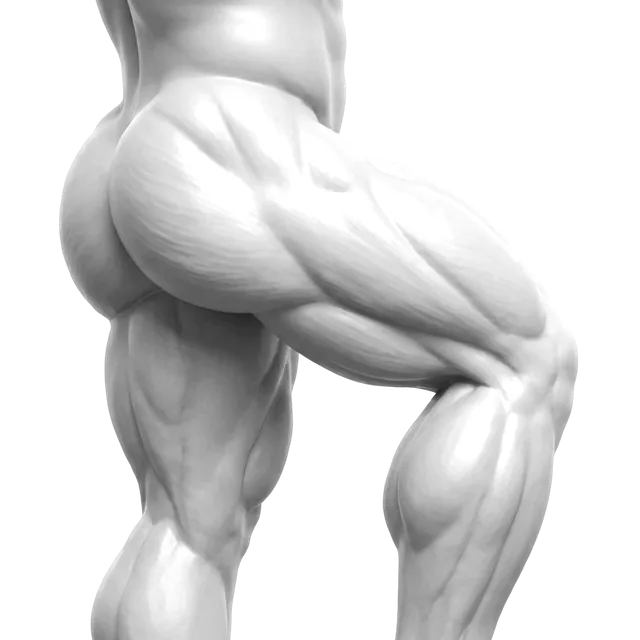
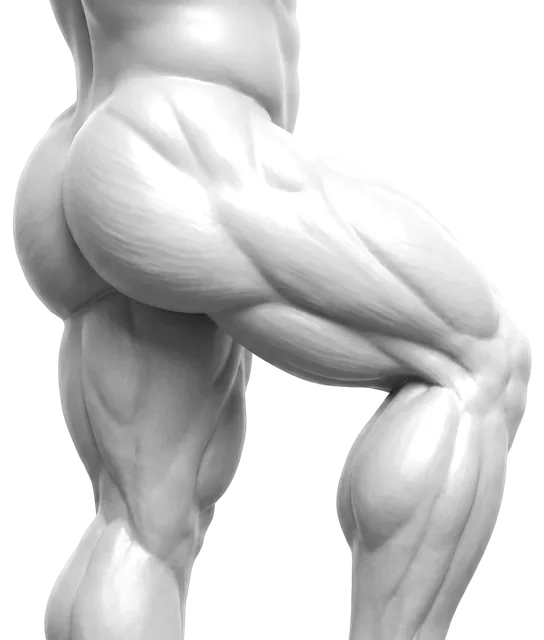
운동 화면 고침 (10-09 홍겸 님 메모)
- 그림: 전신은 한 장(앞 근육 종목 = 앞 · 뒤 근육 = 뒤) · '지금 몸' · 종목 이름표 뺌 · 확대 그림은 몸만 잘라 가운데로
- 종목 넣기 시트 제목 '종목 추가하기'
- 화면을 좌우로 밀면 이전 · 다음 종목 · 맨 아래 ‹ › 뺌
- 그 종목 마지막 세트 휴식을 끝까지 기다리면 다음 종목으로 (마지막 종목은 그대로 · 보고서로 안 감)
- 메모의 직전 동작: 시간 없이 이름만 · 최근 3개

Claude-Session: https://claude.ai/code/session_01S7k5n3etJGqSpyDbrQ5bJh

diff --git a/app/src/main/java/com/slayde/hasenheide/ui/WorkoutScreen.kt b/app/src/main/java/com/slayde/hasenheide/ui/WorkoutScreen.kt
@@ -45,6 +45,8 @@ import androidx.compose.material3.Text
 import androidx.compose.runtime.Composable
 import androidx.compose.runtime.DisposableEffect
 import androidx.compose.runtime.LaunchedEffect
+import androidx.compose.foundation.gestures.detectHorizontalDragGestures
+import androidx.compose.ui.input.pointer.pointerInput
 import androidx.compose.runtime.SideEffect
 import androidx.compose.runtime.getValue
 import androidx.compose.runtime.mutableIntStateOf
@@ -222,6 +224,27 @@ fun 운동화면(상태: 앱상태, 폰: 폰기능) {
     }
     fun 바꿈(f: (운동세션) -> 운동세션) = 함 { s -> 운결과(f(s), 운보기.본) }
 
+    // 10-09 홍겸 님: 그 종목 마지막 세트의 휴식을 끝까지 기다렸으면 다음 종목으로 (건너뛰기와 같다).
+    //  데이터는 이미 다음 종목으로 가 있고 보는 칸만 남아 있었다. 남은 종목이 없으면(마지막 종목의 마지막 세트) 그대로 — 보고서로 가지 않는다
+    val 지금쉼 = 쉬는종목(S)
+    LaunchedEffect(지금쉼, S.휴식 == null) {
+        val 앞 = 운보기.앞쉼
+        운보기.앞쉼 = 지금쉼
+        val 지금S = 상태.d.세션 ?: return@LaunchedEffect
+        if (지금S.휴식 != null || 앞 == null || 앞 != 운보기.본) return@LaunchedEffect
+        val 본e = 지금S.종목들.getOrNull(운보기.본) ?: return@LaunchedEffect
+        if (운남음(본e)) return@LaunchedEffect
+        val 갈 = 다음남은(지금S, 운보기.본)
+        if (갈 >= 0) { 운보기.본 = 갈; 당김++ }
+    }
+    // 10-09 홍겸 님: 화면을 좌우로 밀면 이전 · 다음 종목 (맨 아래 ‹ › 대신)
+    val 넘김: (Int) -> Unit = { 쪽 ->
+        상태.d.세션?.let { s ->
+            val 새 = (운보기.본 + 쪽).coerceIn(0, max(0, s.종목들.size - 1))
+            if (새 != 운보기.본) { 발자취.적기(if (쪽 > 0) "다음 종목으로 밀기" else "이전 종목으로 밀기"); 운보기.본 = 새; 당김++ }
+        }
+    }
+
     // 슈퍼세트 — 체크하면 지금 · 쉬는 줄이 묶음 안 다른 종목으로 간다. 같은 묶음을 보고 있으면 따라간다 (시안에는 슈퍼세트가 없다)
     LaunchedEffect(S.i, S.휴식?.종목, S.휴식 == null) { 운보기.본 = 본따라감(S, 운보기.본) }
 
@@ -237,20 +260,18 @@ fun 운동화면(상태: 앱상태, 폰: 폰기능) {
                 발자취.적기("운동 화면 나가기"); 뒤로?.onBackPressed()
             }
             AnimatedVisibility(visible = 그림켬 && !그림숨김) {
-                Box(Modifier.번호("운그림")) { 운동그림칸(상태, S.copy(i = 본), 지금) { 그림칸기억.숨긴운동 = S.루틴id } }
+                Box(Modifier.번호("운그림").좌우밀기(넘김)) { 운동그림칸(상태, S.copy(i = 본), 지금) { 그림칸기억.숨긴운동 = S.루틴id } }
             }
-            세트목록(상태, S, 본, 지금, Modifier.weight(1f), 함 = ::함, 바꿈 = ::바꿈, 당김 = { 당김++ })
+            세트목록(상태, S, 본, 지금, Modifier.weight(1f).좌우밀기(넘김), 함 = ::함, 바꿈 = ::바꿈, 당김 = { 당김++ })
             진행상자(상태, S, 본, 당김, Modifier.번호("운띠"), 함 = ::함, 고름 = { i -> 운보기.본 = i; 당김++ }, 넣기 = { 넣기열림 = true })
             단추줄(S, 본,
-                이전 = { 운보기.본 = max(0, 운보기.본 - 1); 당김++ },
-                다음 = { 상태.d.세션?.let { s -> 운보기.본 = min(s.종목들.size - 1, 운보기.본 + 1) }; 당김++ },
                 주 = { 발자취.적기("큰 단추 ${운주상태(S, 본).글}"); 함 { s -> 운주누름(s, 운보기.본, System.currentTimeMillis()) }; 당김++ },
                 끝내기 = { 발자취.적기("오늘 운동 끝내기"); 바꿈 { it.끝냄(System.currentTimeMillis()) } },
             )
         }
         // [＋] 종목 넣기 — 루틴과 같은 시트 (속은 RT 도우미 몫). 누름 = 넣기 / 들어간 것 누름 = 맨 뒤 하나 빼기 / 꾹 = 하나 더
         if (넣기열림) 종목넣기시트(
-            상태, 제목 = "${S.루틴이름}에 넣기",
+            상태, 제목 = "종목 추가하기",   // 10-09 홍겸 님: 루틴 이름(종목 이름들)이 길게 나오던 것 → 짧게
             개수 = { 열쇠 -> 상태.d.세션?.종목들?.count { it.열쇠 == 열쇠 && it.플랜id == null } ?: 0 },
             넣기 = { 열쇠 ->
                 발자취.적기("운동 중 넣기 $열쇠")
@@ -287,6 +308,19 @@ fun 운동화면(상태: 앱상태, 폰: 폰기능) {
 private object 운보기 {
     var 세션 by mutableLongStateOf(Long.MIN_VALUE)
     var 본 by mutableIntStateOf(0)
+    /** 바로 전에 쉬던 종목 — 휴식이 끝까지 돌아 끝났을 때 보는 칸을 다음 종목으로 옮기려고 (10-09) */
+    var 앞쉼: Int? = null
+}
+
+/** 좌우로 밀기 — [운치수.밀기] 넘게 밀었다 떼면 왼쪽으로 민 것 = 다음(+1) · 오른쪽 = 이전(−1). 위아래 스크롤과는 먼저 움직인 쪽이 이긴다 */
+private fun Modifier.좌우밀기(넘김: (Int) -> Unit): Modifier = pointerInput(Unit) {
+    val 기준 = 운치수.밀기.toPx()
+    var 합 = 0f
+    detectHorizontalDragGestures(
+        onDragStart = { 합 = 0f },
+        onDragEnd = { if (abs(합) > 기준) 넘김(if (합 < 0) 1 else -1); 합 = 0f },
+        onDragCancel = { 합 = 0f },
+    ) { ch, dx -> 합 += dx; ch.consume() }
 }
 
 /** 지금 치고 있는 kg · 회 칸 — 다른 행동을 하기 전에 친 값을 넣는다 (한 번에 하나) */
@@ -317,7 +351,7 @@ private object 운치수 {
     const val 더동그라미비 = 0.95f   // 10-09: 세트 줄 아래 [＋ 세트] 동그라미 = 번호 동그라미 × 0.95 [11_UI지침에 올릴 값]
     const val 값그림배 = 0.97f       // 10-09: 세트 줄 − ＋ 그림 3% 작게 (16 → 15.52 · 누르는 칸 20 은 그대로) [11_UI지침에 올릴 값]
     val 칸여유 = 4.dp               // 10-09: 세트 줄 kg · 회 · 휴식 칸 = 단추 둘 + 테 둘 + 잰 글자 폭 + 이 여유
-    val 단추그림 = 20.dp            // 맨 아래 ‹ › (시안 `.운단추줄 svg`)
+    val 밀기 = 48.dp                // 10-09 홍겸 님: 화면을 좌우로 이만큼 밀면 이전 · 다음 종목 [11_UI지침에 올릴 값]
     val 점선 = 3.dp                 // [＋] 점선 테
     val 칸번호위 = 9.dp             // 칸 오른쪽 위 번호 딱지 (위 4 + 딱지가 스스로 올라가는 5)
     val 칸번호뺄수위 = 39.dp        // ✕ 가 있는 칸은 세트 수 줄 오른쪽 (34 + 5)
@@ -329,7 +363,7 @@ private object 운치수 {
     const val 게이지줄 = 1.1f        // 게이지 시간 줄 높이(em) — 15 × 1.1 = 16.5
     const val 게이지문구줄 = 1.3f    // 게이지 문구 줄 높이(em) — 11 × 1.3 = 14.3. 1.1 이면 한글 아래가 잘렸다 (10-06 홍겸 님 '건너뛰기 아래 잘림'). 합 30.8 ≤ 32
     const val 칸이름줄 = 1.25f       // 아래 칸 이름 11 두 줄이 28 안에 (시안 `.운칸 .ㅇ line-height 1.25`)
-    val 단추비 = listOf(0.125f, 0.475f, 0.275f, 0.125f)   // v21 ④
+    val 단추비 = listOf(0.475f / 0.75f, 0.275f / 0.75f)   // v21 ④ 의 큰 주 단추 : 운동 마치기 — 10-09 ‹ › 를 빼고 그 비율대로 줄을 채운다
     const val 세트줄간격비 = 0.75f   // 세트 줄 사이 간격 25% 줄임 (10-06 홍겸 님 ⑤) — 줄 위아래 안쪽 여백 · 줄 사이 틈 둘 다 이 비율로
     val 줄비 = listOf(66f, 80f, 102f, 104f)                  // 세트 줄 칸 비율 — 번호 · kg · 회 · 휴식. 최소 폭은 10-09 부터 글자를 재서 정한다(`세트칸최소`)
 }
@@ -1047,11 +1081,10 @@ private fun androidx.compose.ui.graphics.drawscope.DrawScope.나선그림(왼: F
 
 // ═════════════════════ 맨 아래 단추 넷 ═════════════════════
 
-/** [‹ 12.5%][큰 주 단추 47.5%][오늘 운동/끝내기 27.5% · 빨강][› 12.5%] (v21 ④) — 높이 40 · 틈 8 */
+/** [큰 주 단추][운동 마치기 · 빨강] (v21 ④ 에서 ‹ › 를 뺌 · 10-09) — 높이 40 · 틈 8 */
 @Composable
-private fun 단추줄(S: 운동세션, 본: Int, 이전: () -> Unit, 다음: () -> Unit, 주: () -> Unit, 끝내기: () -> Unit) {
+private fun 단추줄(S: 운동세션, 본: Int, 주: () -> Unit, 끝내기: () -> Unit) {
     val c = Local색.current
-    val n = S.종목들.size
     BoxWithConstraints(
         Modifier.fillMaxWidth().background(c.면).번호("운6")
             .drawBehind { drawRect(c.선, size = Size(size.width, 선굵기.보통.toPx())) }
@@ -1066,21 +1099,16 @@ private fun 단추줄(S: 운동세션, 본: Int, 이전: () -> Unit, 다음: () 
                 운주글(상.글, Modifier.weight(1f, fill = false))
             }
         } else Row(horizontalArrangement = Arrangement.spacedBy(간격.좁게)) {
-            운단추(Modifier.width(폭[0]), 쓸수있음 = 본 > 0, 설명 = "이전 종목", onClick = 이전) {
-                Icon(아이콘.칩왼쪽, null, Modifier.size(운치수.단추그림), tint = c.글)
-            }
-            운단추(Modifier.width(폭[1]), 주요 = true, 설명 = 상.글, onClick = 주) {
+            // 10-09 홍겸 님: 맨 아래 ‹ › 는 뺐다 — 종목은 화면을 좌우로 밀어 넘긴다
+            운단추(Modifier.width(폭[0]), 주요 = true, 설명 = 상.글, onClick = 주) {
                 노란점()
                 운주글(상.글, Modifier.weight(1f, fill = false))
             }
-            운단추(Modifier.width(폭[2]), onClick = 끝내기) {
+            운단추(Modifier.width(폭[1]), onClick = 끝내기) {
                 Text(
                     "운동 마치기", style = 글꼴.보통(크기.버튼, FontWeight.Bold), color = c.나쁨,   // 10-09 홍겸 님: '오늘 운동 끝내기' → '운동 마치기'
                     textAlign = TextAlign.Center, maxLines = 2,
                 )
-            }
-            운단추(Modifier.width(폭[3]), 쓸수있음 = 본 < n - 1, 설명 = "다음 종목", onClick = 다음) {
-                Icon(아이콘.칩오른쪽, null, Modifier.size(운치수.단추그림), tint = c.글)
             }
         }
     }

diff --git a/app/src/main/java/com/slayde/hasenheide/ui/MuscleView.kt b/app/src/main/java/com/slayde/hasenheide/ui/MuscleView.kt
@@ -102,6 +102,12 @@ import kotlin.random.Random
  * 운동 중 '지금 종목 확대' (10-09 새 그림) — 그 종목 근육으로 [근육두장고름] 이 고른 확대 그림.
  * 확대 그림이 없으면(복근만) 반신, 근육을 모르면 전신
  */
+/** 운동 중 전신 한 장 — 지금 종목의 반신이 후면이면 뒤(02), 아니면 앞(01) (10-09 홍겸 님) */
+internal fun 종목전신쪽(이름: String, 부위: String?): String = when (근육두장고름(근육계산.종목근육(이름, 부위)).반신) {
+    반신.상후, 반신.하후 -> "02"
+    else -> "01"
+}
+
 internal fun 종목확대보기(이름: String, 부위: String?): List<그림보기> {
     val 고름 = 근육두장고름(근육계산.종목근육(이름, 부위))
     return 고름.확대?.번호?.let { listOf(그림보기(it)) } ?: 고름.반신?.보기 ?: 그림보기들.전신
@@ -225,7 +231,7 @@ private data class 판(val 종류: String, val 종목: String = "", val 사진: 
 /**
  * 운동 중 위쪽 그림 칸 — 근육 2장 · 근육 + 사진 · 사진 1장 · 사진 2장 (설정에서 고른다).
  *  · 높이는 늘 124 (10-06 쉬는 동안 커지던 것 뺌)
- *  · 근육: '지금 몸'(앞 · 뒤 전신 = 남은 피로 + 오늘) · 지금 종목 확대. 세트를 끝낼 때마다 빨개지고, 쉬면 원래 색으로 돌아간다
+ *  · 근육: 전신 한 장(지금 종목이 앞 근육이면 앞 · 뒤 근육이면 뒤 = 남은 피로 + 오늘) · 지금 종목 확대. 세트를 끝낼 때마다 빨개지고, 쉬면 원래 색으로 돌아간다 · 이름표 없음 (10-09)
  *  · 사진: 세트를 끝낼 때마다 무작위로 바뀐다. 오른쪽에 접힌 더미(남은 사진 수, 최대 9)
  */
 @Composable
@@ -241,6 +247,7 @@ fun 운동그림칸(상태: 앱상태, S: 운동세션, 지금: Long, on숨김: 
     val 분 = 지금 / 60_000L
     val 단계 = remember(S.종목들, d.피로, d.최대볼륨, d.몸.체중, d.종목표, 분) { d.근육단계(S.근육입력들(), 지금) }
     val 사진들 = d.종목표.firstOrNull { it.이름 == e.이름 }?.사진.orEmpty()
+    val 전신쪽 = remember(e.이름, d.종목부위(e.이름)) { 종목전신쪽(e.이름, d.종목부위(e.이름)) }
     val 씨 = 그림칸기억.씨("${S.시작시각}|${끝낸}")
     fun 사진판(칸: Int): 판 {
         val n = 사진들.size
@@ -250,8 +257,9 @@ fun 운동그림칸(상태: 앱상태, S: 운동세션, 지금: Long, on숨김: 
         return 판("사진", e.이름, 사진들[i], i, n, 끝낸)
     }
     val 칸들: List<판> = when (모) {
-        "근육 2장" -> listOf(판("전신"), 판("확대", e.이름))
-        "근육 + 사진" -> listOf(if (끝낸 % 2 == 1) 판("확대", e.이름) else 판("전신"), 사진판(0))
+        // 10-09 홍겸 님: 전신은 한 장만 — 지금 종목이 앞 근육이면 앞, 뒤 근육이면 뒤 (그림이 셋이면 정신없다)
+        "근육 2장" -> listOf(판("전신", 전신쪽), 판("확대", e.이름))
+        "근육 + 사진" -> listOf(if (끝낸 % 2 == 1) 판("확대", e.이름) else 판("전신", 전신쪽), 사진판(0))
         "사진 1장" -> listOf(사진판(0))
         else -> listOf(사진판(0), 사진판(1))
     }
@@ -310,17 +318,17 @@ private fun 그림판(p: 판, 단계: Map<String, Double>, 색표이름: String,
     val 모양 = RoundedCornerShape(그림칸.모서리)
     Box(Modifier.fillMaxSize().clip(모양).background(c.면).border(1.dp, c.선, 모양)) {
         when (p.종류) {
-            "전신" -> 새몸그림(단계, 색표이름, 그림보기들.전신, Modifier.fillMaxSize().padding(간격.아주좁게))
+            "전신" -> 새몸그림(단계, 색표이름, remember(p.종목) { listOf(그림보기(p.종목.ifEmpty { "01" })) }, Modifier.fillMaxSize().padding(간격.아주좁게))
             "확대" -> 새몸그림(단계, 색표이름, remember(p.종목, 부위) { 종목확대보기(p.종목, 부위) }, Modifier.fillMaxSize().padding(간격.아주좁게))
             "사진" -> 사진그림(p.사진 ?: "", 그림칸.높이 * 2, Modifier.fillMaxSize(), "${p.종목} 사진")
             else -> 글("사진 없음", Modifier.align(Alignment.Center), 크기값 = 크기.작게, 색 = c.옅음, 가운데 = true)   // 설명 글은 한 줄
         }
         // 이름 — 지금 종목 이름은 잘리면 안 된다 (U5-8): 말줄임 없이 글자를 줄인다 (10-01 홍겸 님 "짜르지말고 차라리 글자크기를 줄여")
-        val 제목 = when (p.종류) { "전신" -> "지금 몸"; "사진" -> "${p.번호 + 1}/${p.수}"; else -> p.종목 }
-        Box(
+        // 10-09 홍겸 님: 근육 그림에는 '지금 몸' · 종목 이름을 달지 않는다 — 사진의 'n/m' 만
+        if (p.종류 == "사진") Box(
             Modifier.align(Alignment.BottomStart).padding(start = 간격.좁게, bottom = 간격.아주좁게, end = 간격.아주넓게)
                 .clip(RoundedCornerShape(그림칸.모서리)).background(c.면).padding(horizontal = 간격.아주좁게),
-        ) { 맞춤글(제목, 최대 = 크기.아주작게, 색 = c.흐림) }
+        ) { 맞춤글("${p.번호 + 1}/${p.수}", 최대 = 크기.아주작게, 색 = c.흐림) }
         if (더미 > 0) 사진더미(더미)
     }
 }

diff --git a/app/src/main/java/com/slayde/hasenheide/ui/Common.kt b/app/src/main/java/com/slayde/hasenheide/ui/Common.kt
@@ -529,19 +529,20 @@ fun 숫자버튼줄(
 }
 
 /**
- * 발자취 — 방금 한 동작 20가지를 담아 둔다 (09-24 메모).
- * 메모를 적으면 **직전 10가지가 메모에 함께 저장**돼, 무엇을 하다 적었는지 알 수 있다.
- * 폰 안에만 있고, 메모에 붙은 것만 남는다. 자판처럼 이어지는 동작은 한 번으로 친다.
+ * 발자취 — 방금 한 동작을 담아 둔다 (09-24 메모).
+ * 메모를 적으면 **직전 동작이 메모에 함께 저장**돼, 무엇을 하다 적었는지 알 수 있다.
+ * 10-09 홍겸 님: 시간 없이 **이름만 · 최근 3개까지** (그게 더 빠르다).
+ * 폰 안에만 있고, 메모에 붙은 것만 남는다. 같은 동작이 잇따르면 한 번으로 친다.
  */
 object 발자취 {
+    const val 메모에 = 3
     private val 것 = ArrayDeque<String>()
     fun 적기(글: String) {
-        if (것.lastOrNull()?.substringAfter(' ') == 글) return   // 같은 동작이 잇따르면 한 번으로
-        val t = java.time.LocalTime.now()
-        것.addLast("%02d:%02d:%02d %s".format(t.hour, t.minute, t.second, 글))
-        while (것.size > 20) 것.removeFirst()
+        if (것.lastOrNull() == 글) return   // 같은 동작이 잇따르면 한 번으로
+        것.addLast(글)
+        while (것.size > 메모에) 것.removeFirst()
     }
-    fun 최근(n: Int = 10): List<String> = 것.toList().takeLast(n)
+    fun 최근(n: Int = 메모에): List<String> = 것.toList().takeLast(n)
 }
 
 /** 지금 숫자를 고치는 칸이 몇 개 열려 있나 — 0 이 아니면 아래 탭을 숨긴다 */

diff --git a/app/src/main/java/com/slayde/hasenheide/ui/MusclePicData.kt b/app/src/main/java/com/slayde/hasenheide/ui/MusclePicData.kt
@@ -12,9 +12,9 @@ object 근육그림표 {
     val 그림들 = listOf(
         그림("01", "전신앞", 576, 1032),
         그림("02", "전신뒤", 576, 1032),
-        그림("04", "팔어깨확대", 640, 640),
-        그림("05", "굽힌다리확대", 640, 640),
-        그림("06", "등확대", 640, 640),
+        그림("04", "팔어깨확대", 501, 640),
+        그림("05", "굽힌다리확대", 544, 640),
+        그림("06", "등확대", 628, 640),
         그림("07", "가슴정면", 640, 640),
     )
 

diff --git a/tools/근육그림_생성.py b/tools/근육그림_생성.py
@@ -15,7 +15,7 @@
   · 색표.json · 대표칸/칸표.json
 
 쓰는 것 — 손으로 고치지 않는다
-  · app/src/main/assets/muscle/NN.webp      그림 (전신 높이 1032 · 확대 640 · 밝기만 남긴 회색)
+  · app/src/main/assets/muscle/NN.webp      그림 (전신 높이 1032 · 확대는 몸만 잘라 긴 변 640 · 밝기만 남긴 회색)
   · app/src/main/assets/muscle/NN_map.png   칸 번호 판 (회색 한 장 · 값 = 칸번호(1~15) × 16 + 쪽(0 · L 1 · R 2) · 0 = 빈 곳)
   · app/src/main/java/com/slayde/hasenheide/ui/MusclePicData.kt   그림 이름 · 크기 · 칸 이름 · 칸에 든 근육
 """
@@ -64,7 +64,17 @@ def main():
         L = np.clip(L / np.percentile(L[a[..., 3] >= 128], 밝기기준), 0, 1) * 255
         a[..., 0] = a[..., 1] = a[..., 2] = L
         im = Image.fromarray(a.astype(np.uint8), "RGBA")
-        크기 = (확대긴변, 확대긴변) if im.size[0] == im.size[1] else (round(im.size[0] * 전신높이 / im.size[1]), 전신높이)
+        확대 = im.size[0] == im.size[1]
+        if 확대:
+            # 10-09 홍겸 님 "팔 확대 사진 가운데 정렬" — 확대 그림은 몸이 그려진 곳만 남기고 잘라 칸 가운데에 오게 (여백 2%)
+            ys, xs = np.nonzero(np.array(im)[..., 3] > 8)
+            m = round(im.size[0] * 0.02)
+            상자 = (max(0, xs.min() - m), max(0, ys.min() - m), min(im.size[0], xs.max() + 1 + m), min(im.size[1], ys.max() + 1 + m))
+            im = im.crop(상자); 판 = 판.crop(상자)
+            배 = 확대긴변 / max(im.size)
+            크기 = (round(im.size[0] * 배), round(im.size[1] * 배))
+        else:
+            크기 = (round(im.size[0] * 전신높이 / im.size[1]), 전신높이)
         im = im.resize(크기, Image.LANCZOS)
         판 = 판.resize(크기, Image.NEAREST)
         im.save(os.path.join(자원, 번호 + ".webp"), "WEBP", quality=82, method=6)
